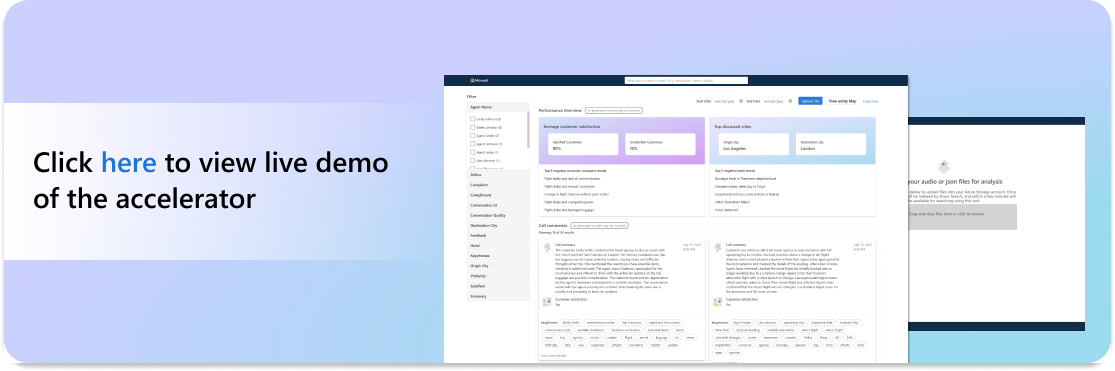
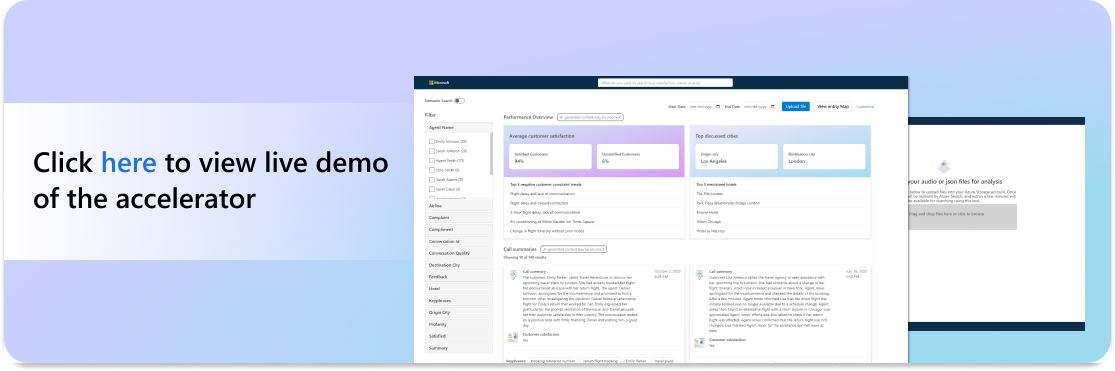
updating demo link and new screen shots

Changed region(s): [[0.3659, 0.1779, 0.8233, 0.9784], [0.7623, 0.6523, 0.7928, 0.6819]]

diff --git a/README.md b/README.md
@@ -21,7 +21,7 @@ This accelerator allows customers to quickly deploy an integrated
 platform and immediately start extracting insights from customer or
 employees\' conversations.
 
-[![Click here to view live demo](/images/readMe/Demo_Button.png)](https://conversational-knowledge-mining.azurewebsites.net/)
+[![Click here to view live demo](/images/readMe/Demo_Button.png)](https://cscilelulu-ui.azurewebsites.net/)
 
 **Key features:**
 
